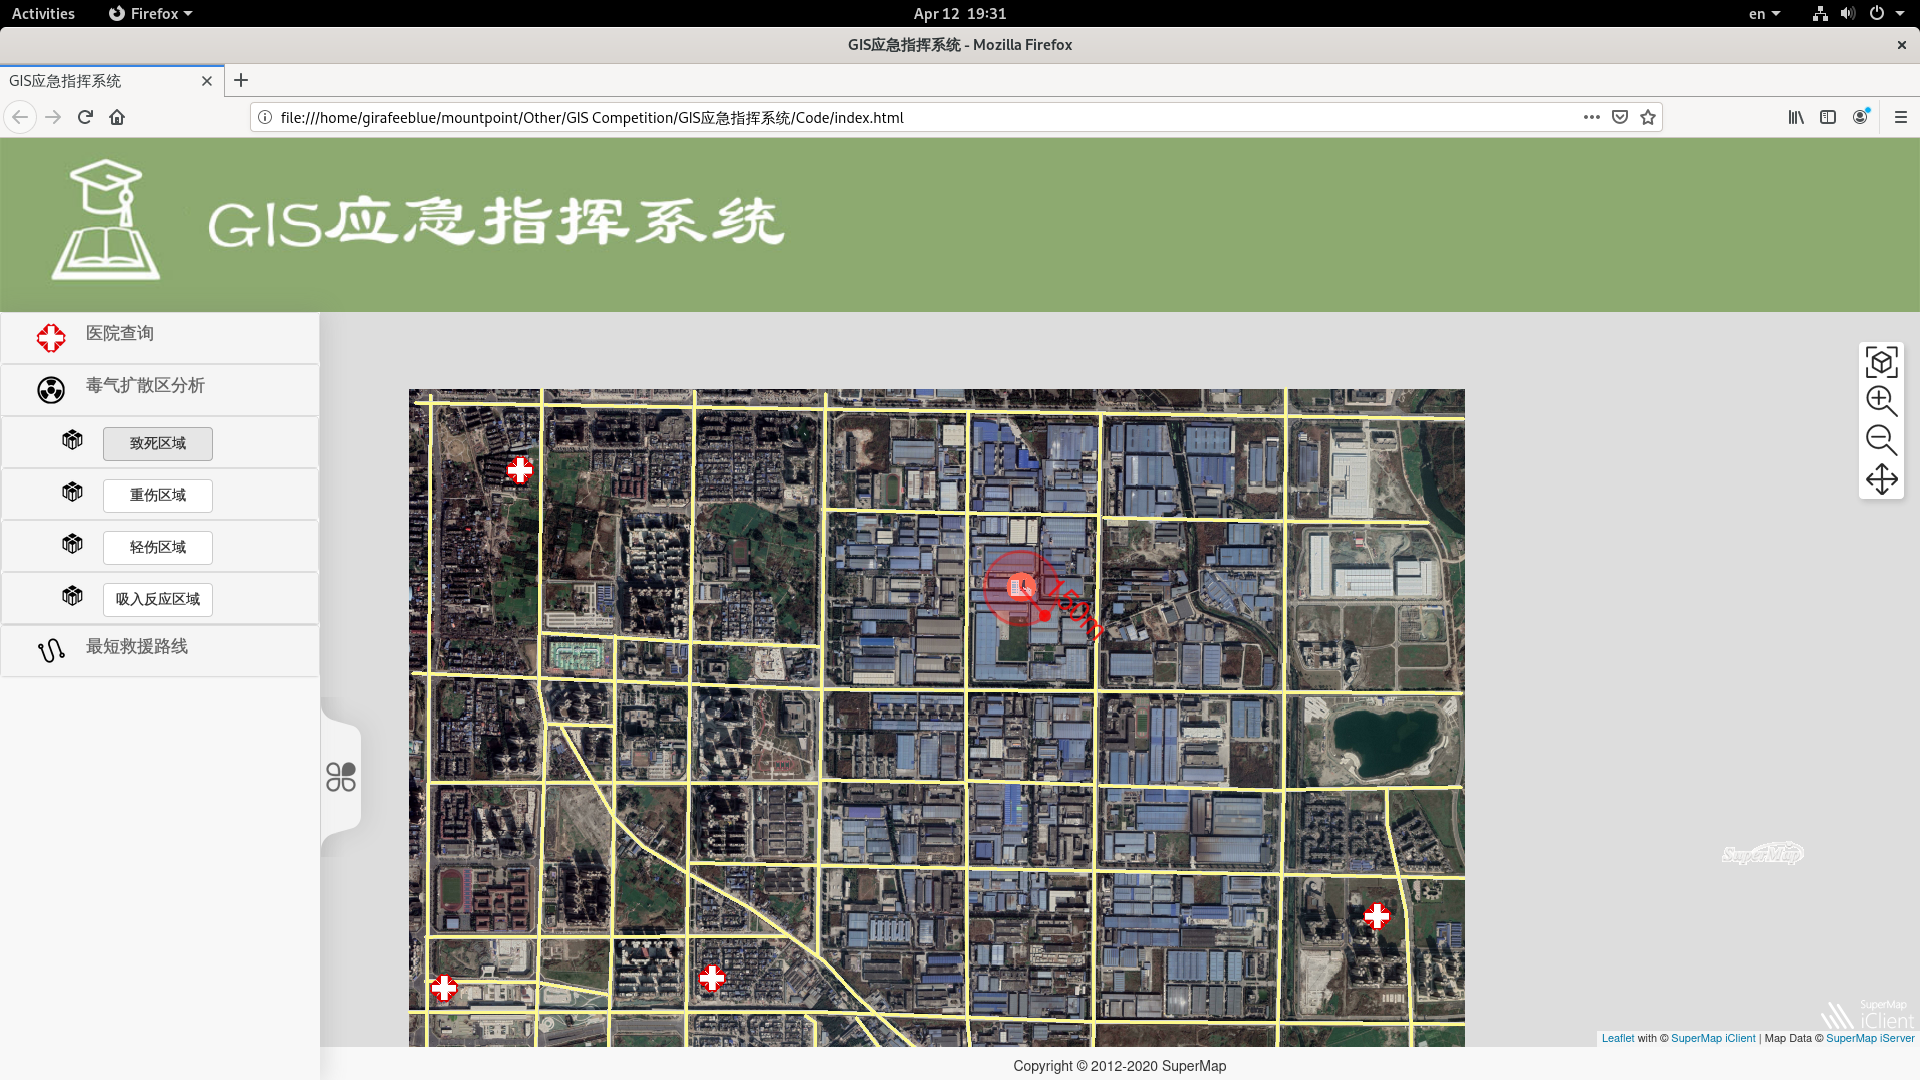
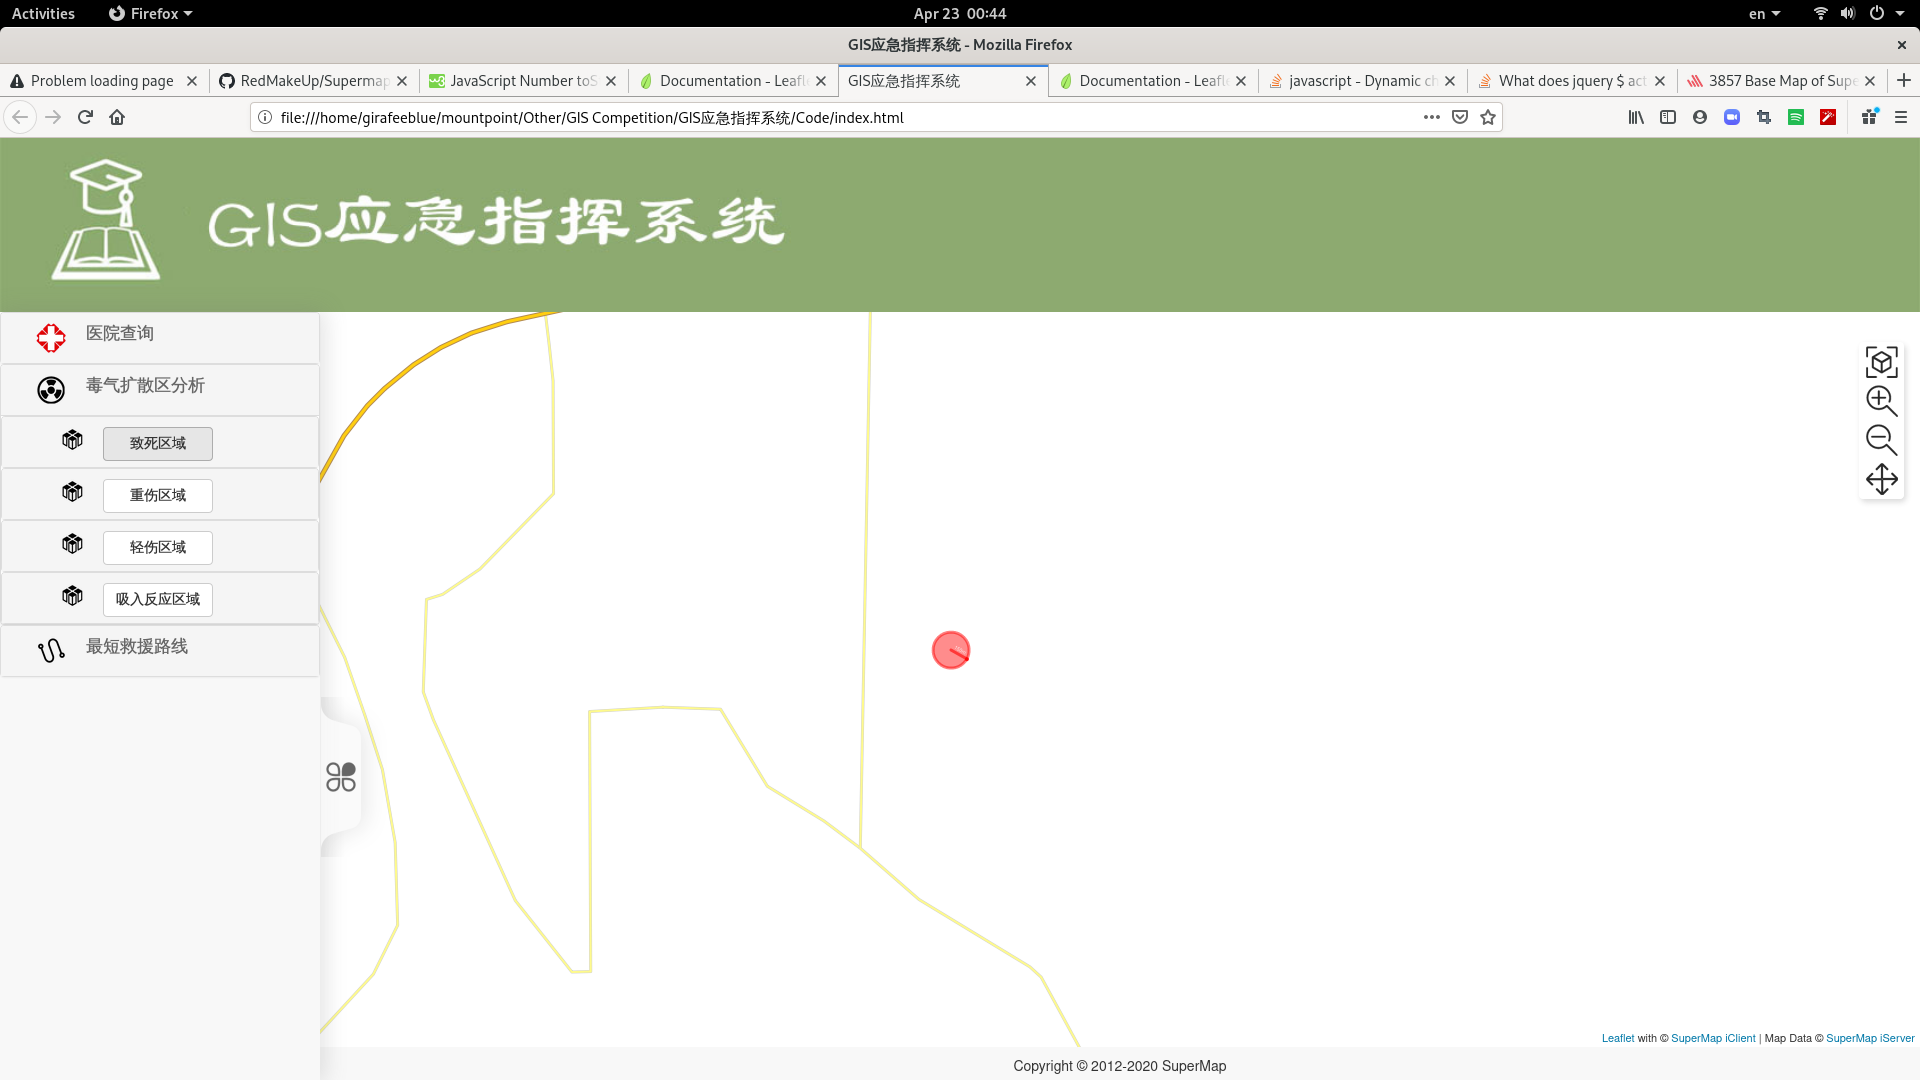
Change Readme

diff --git a/README.md b/README.md
@@ -3,9 +3,9 @@ Supermap GIS Competition(Supermap, Leaflet, Javascript)
 
 Update
 # ----------------------------------------
-1.  将地图的缩放等级固定到了15
-2.  添加了全部的四个等级区域的显示效果
-3.  所有颜色，字体大小，旋转角度全都待定...
+1.  允许三个zoom等级(14, 15, 16)，并根据不同的zoom等级，定义不同的行为
+2.  危险区域上的文字改成了白色，且基本位于线段中间
+3.  修改了某些区域的颜色以及透明度
 # ----------------------------------------
 
 Note
